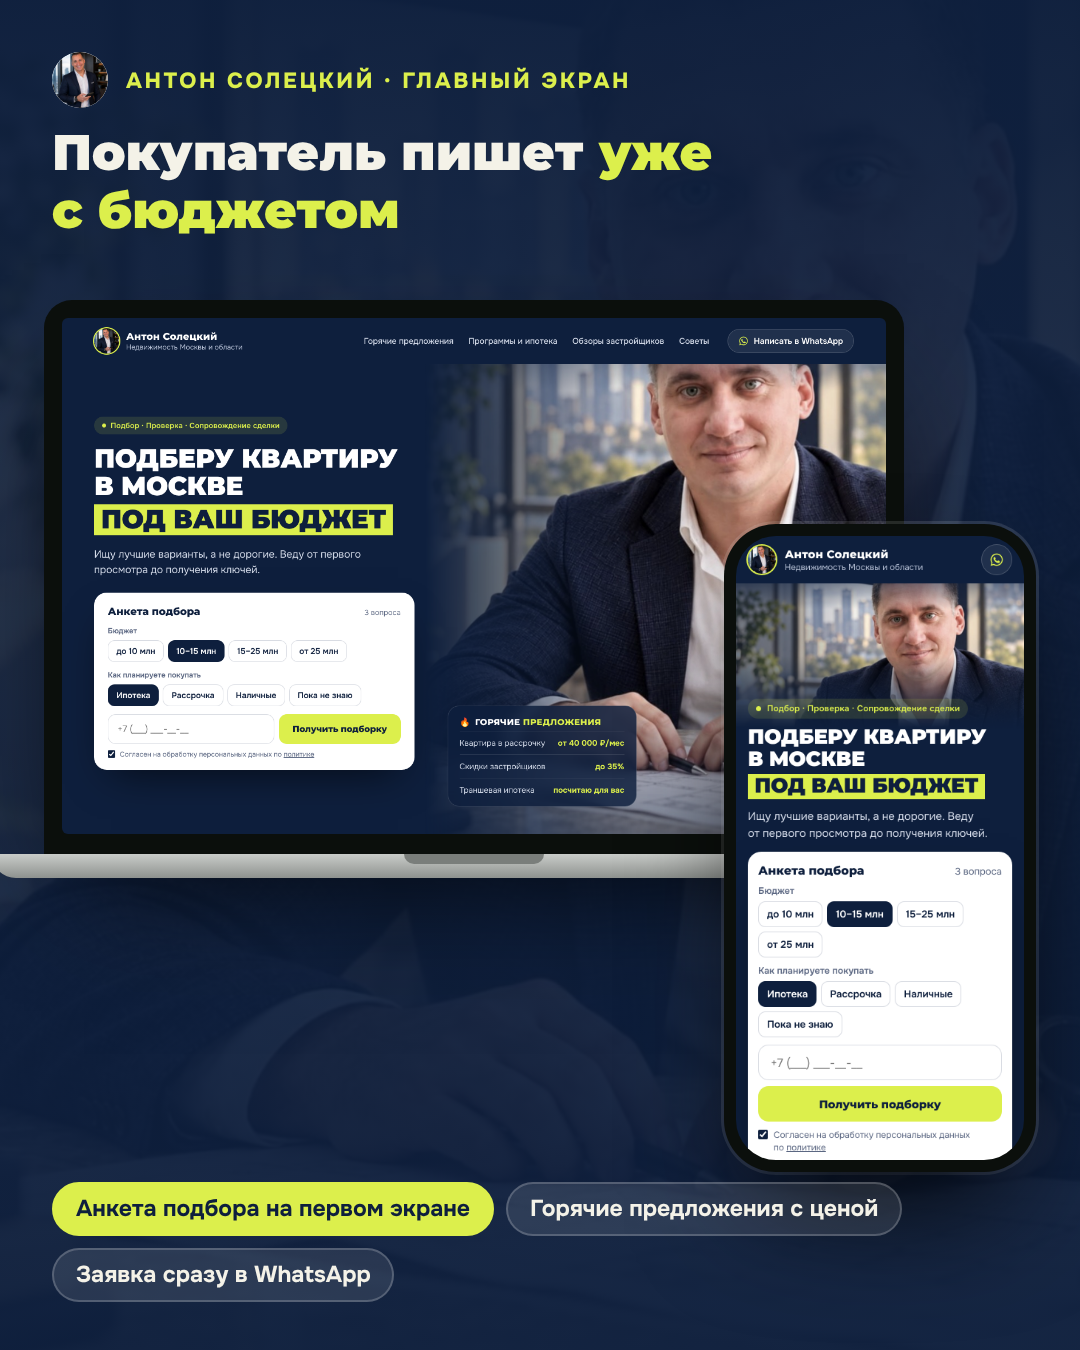
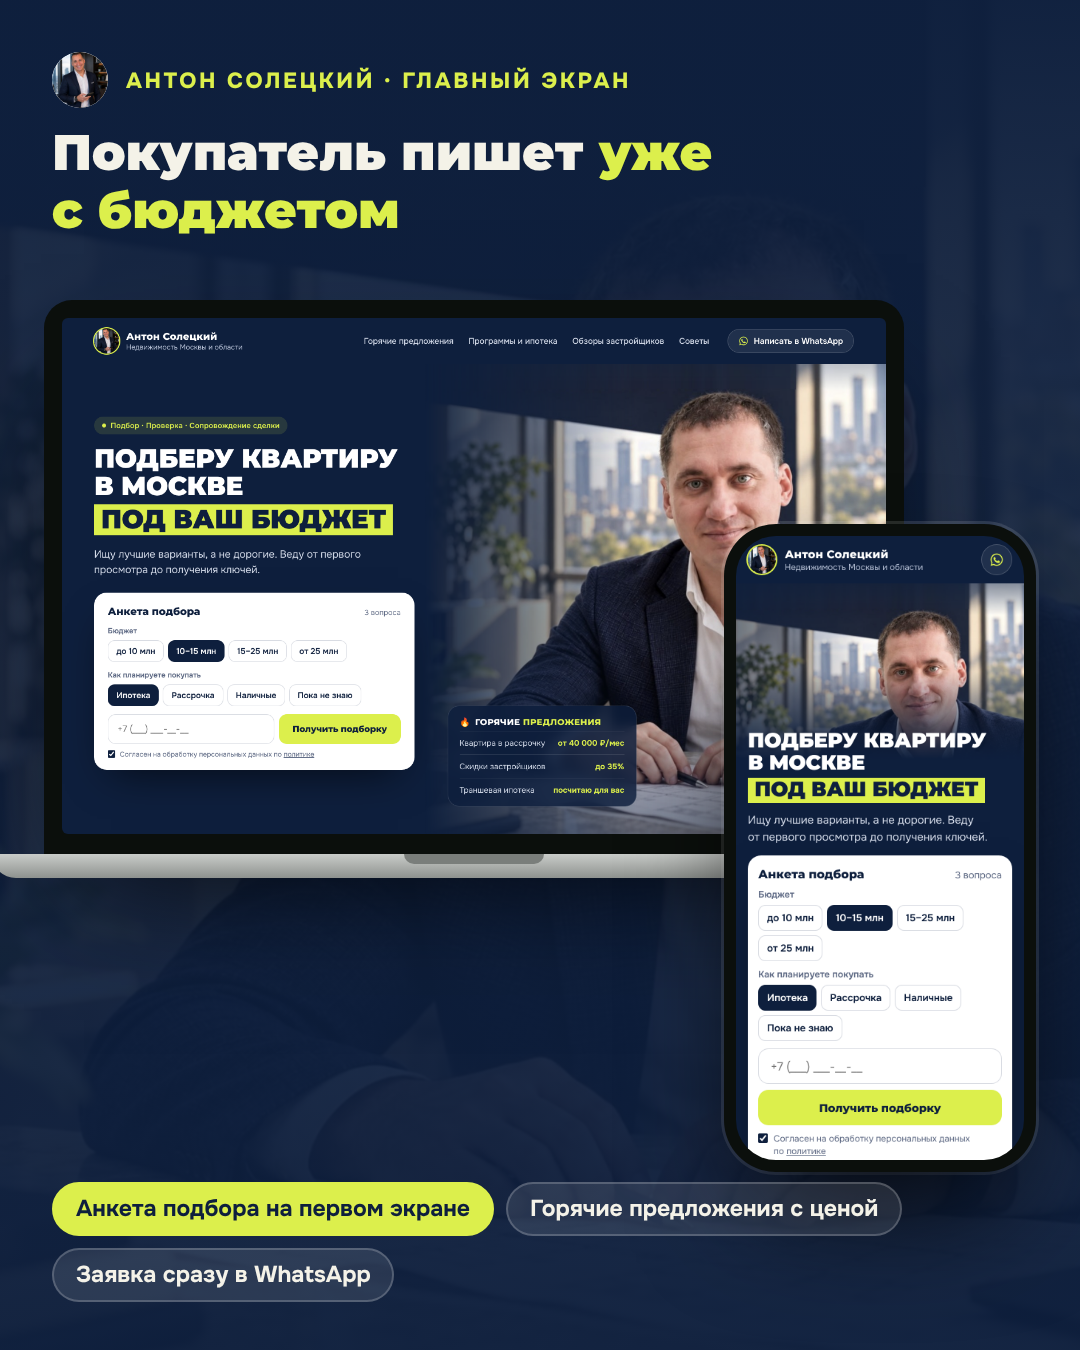
Антон Солецкий: фото с запасом над головой, макет пересобран
Claude-Session: https://claude.ai/code/session_01MqcZMHduKeeFCePavPVBQH

Changed region(s): [[0.3972, 0.2489, 0.9472, 0.8711]]

diff --git a/anton-soleckiy/index.html b/anton-soleckiy/index.html
@@ -33,7 +33,7 @@ button,input{font:inherit}
 
 /* первый экран */
 .hero{position:relative;min-height:calc(100vh - 80px);display:grid;grid-template-columns:minmax(0,640px) 1fr;overflow:hidden}
-.hero-photo{position:absolute;inset:-80px 0 0 44%;background:url("img/anton-stol.jpg") 62% 30%/cover no-repeat}
+.hero-photo{position:absolute;inset:-80px 0 0 44%;background:url("img/anton-stol.jpg") 62% 0/cover no-repeat}
 .hero-photo::after{content:"";position:absolute;inset:0;background:
   linear-gradient(90deg,var(--navy) 0%,rgb(14 31 61 / .55) 22%,rgb(14 31 61 / 0) 46%),
   linear-gradient(0deg,rgb(14 31 61 / .55) 0%,rgb(14 31 61 / 0) 30%),
@@ -103,10 +103,10 @@ h1 mark{display:inline-block;white-space:nowrap;margin-top:8px;padding:2px 12px 
   .wa span{display:none}
   .wa svg{width:20px;height:20px}
   .hero{display:block;min-height:0}
-  .hero-photo{position:relative;inset:auto;height:196px;background-size:125% auto;background-position:72% 3%}
+  .hero-photo{position:relative;inset:auto;height:238px;background-size:120% auto;background-position:67% -30px}
   .hero-photo::after{background:linear-gradient(0deg,var(--navy) 0%,rgb(14 31 61 / 0) 50%),linear-gradient(90deg,rgb(14 31 61 / .6) 0%,rgb(14 31 61 / 0) 45%),linear-gradient(180deg,rgb(14 31 61 / .5) 0%,rgb(14 31 61 / 0) 18%)}
   .hero-text{padding:0 16px 28px;margin-top:-40px}
-  .eyebrow{font-size:11.5px;padding:6px 11px;margin-bottom:10px}
+  .eyebrow{display:none}
   h1{font-size:28px;line-height:1.06}
   h1 mark{margin-top:6px;padding:1px 9px 3px}
   .lead{font-size:15px;margin:12px 0 14px}
